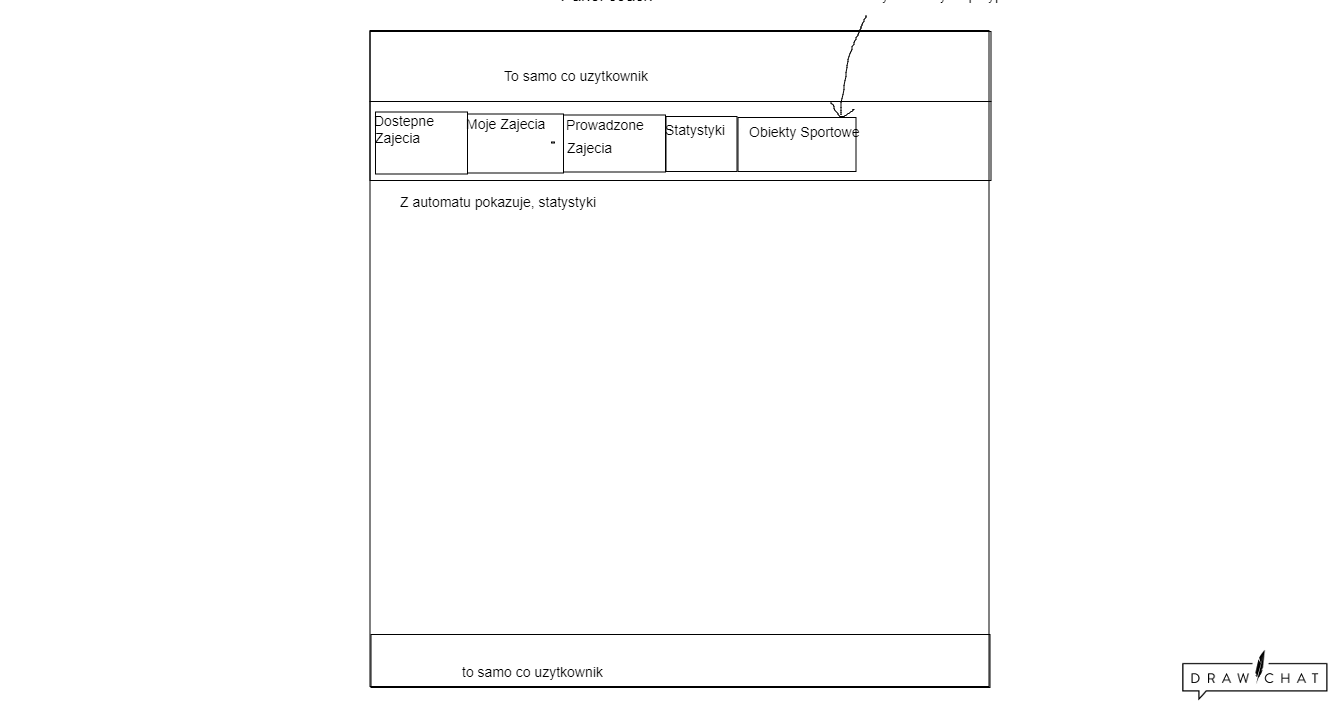
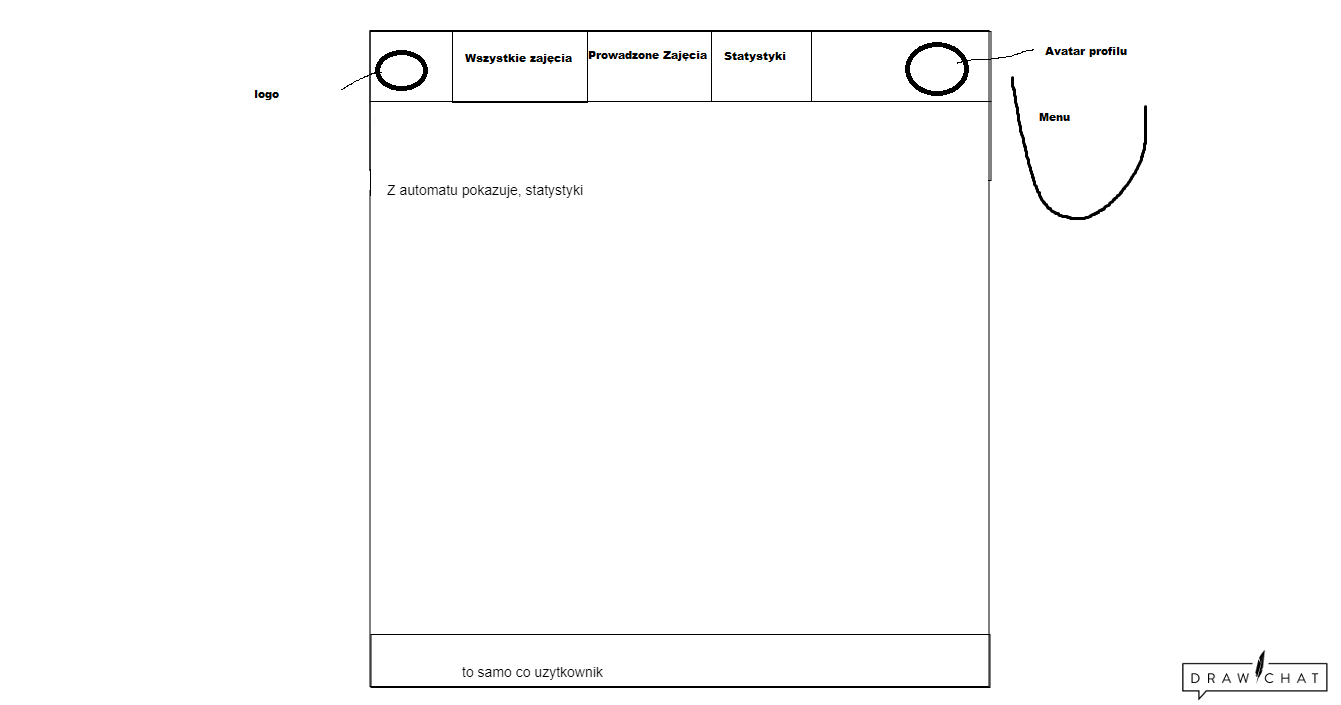
refactor user,coach and customer panel, and add newer graphic visualization to html documentation

diff --git a/FitnessApp/src/main/resources/templates/fragments/components-owner-panel.html b/FitnessApp/src/main/resources/templates/fragments/components-owner-panel.html
@@ -28,18 +28,14 @@
             <button class="navbar-toggler" type="button" data-bs-toggle="collapse" data-bs-target="#navbarResponsive" aria-controls="navbarResponsive" aria-expanded="false" aria-label="Toggle navigation"><span class="navbar-toggler-icon"></span></button>
             <div class="collapse navbar-collapse" id="navbarResponsive">
                 <ul class="navbar-nav ms-auto" id="navbar-full-width">
-                    <li class="nav-item"><a class="nav-link" href="#main-content">Dostępne Zajęcia</a></li>
-                    <li class="nav-item"><a class="nav-link" href="#main-content">Moje Zajęcia</a></li>
-                    <li class="nav-item"><a class="nav-link" href="#main-content">Statystyki</a></li>
-                    <li class="nav-item"><a class="nav-link" th:href="@{/owner-panel/my-clubs}">Moje Obiekty</a></li>
                     <li class="nav-item"><a class="nav-link" th:href="@{/owner-panel/all-clubs}">Wszystkie Obiekty</a></li>
+                    <li class="nav-item"><a class="nav-link" th:href="@{/owner-panel/my-clubs}">Moje Obiekty</a></li>
+                    <li class="nav-item"><a class="nav-link" href="#main-content">Statystyki</a></li>
                     <li class="nav-item dropdown" id="nav-item-right">
                         <a class="nav-link dropdown-toggle" href="#" id="navbarDropdownMenuLink" role="button" data-toggle="dropdown" aria-haspopup="true" aria-expanded="false">
                             <img th:src="@{/images/avatarTransparent.png}" width="40" height="40" class="rounded-circle">
                         </a>
                         <div class="dropdown-menu" aria-labelledby="navbarDropdownMenuLink">
-                            <a class="dropdown-item" href="#">O Nas</a>
-                            <a class="dropdown-item" href="#">Kontakt</a>
                             <a class="dropdown-item" href="#">Ustawienia Profilu</a>
                             <a class="dropdown-item" th:href="@{/logout}">Wyloguj</a>
                         </div>

diff --git a/FitnessApp/src/main/resources/templates/fragments/components-coach-panel.html b/FitnessApp/src/main/resources/templates/fragments/components-coach-panel.html
@@ -28,18 +28,14 @@
             <button class="navbar-toggler" type="button" data-bs-toggle="collapse" data-bs-target="#navbarResponsive" aria-controls="navbarResponsive" aria-expanded="false" aria-label="Toggle navigation"><span class="navbar-toggler-icon"></span></button>
             <div class="collapse navbar-collapse" id="navbarResponsive">
                 <ul class="navbar-nav ms-auto" id="navbar-full-width">
-                    <li class="nav-item"><a class="nav-link" href="#main-content">Dostępne Zajęcia</a></li>
-                    <li class="nav-item"><a class="nav-link" href="#main-content">Moje Zajęcia</a></li>
+                    <li class="nav-item"><a class="nav-link" href="#main-content">Wszystkie Zajęcia</a></li>
                     <li class="nav-item"><a class="nav-link" href="#main-content">Prowadzone Zajęcia</a></li>
                     <li class="nav-item"><a class="nav-link" href="#main-content">Statystyki</a></li>
-                    <li class="nav-item"><a class="nav-link" href="#main-content">Obiekty Sportowe</a></li>
                     <li class="nav-item dropdown" id="nav-item-right">
                         <a class="nav-link dropdown-toggle" href="#" id="navbarDropdownMenuLink" role="button" data-toggle="dropdown" aria-haspopup="true" aria-expanded="false">
                             <img th:src="@{/images/avatarTransparent.png}" width="40" height="40" class="rounded-circle">
                         </a>
                         <div class="dropdown-menu" aria-labelledby="navbarDropdownMenuLink">
-                            <a class="dropdown-item" href="#">O Nas</a>
-                            <a class="dropdown-item" href="#">Kontakt</a>
                             <a class="dropdown-item" href="#">Ustawienia Profilu</a>
                             <a class="dropdown-item" th:href="@{/logout}">Wyloguj</a>
                         </div>

diff --git a/FitnessApp/src/main/resources/templates/fragments/components-customer-panel.html b/FitnessApp/src/main/resources/templates/fragments/components-customer-panel.html
@@ -30,15 +30,13 @@
                 <ul class="navbar-nav ms-auto" id="navbar-full-width">
                     <li class="nav-item"><a class="nav-link" href="#main-content">Dostępne Zajęcia</a></li>
                     <li class="nav-item"><a class="nav-link" href="#main-content">Moje Zajęcia</a></li>
-                    <li class="nav-item"><a class="nav-link" href="#main-content">Statystyki</a></li>
                     <li class="nav-item"><a class="nav-link" href="#main-content">Obiekty Sportowe</a></li>
+                    <li class="nav-item"><a class="nav-link" href="#main-content">Statystyki</a></li>
                     <li class="nav-item dropdown" id="nav-item-right">
                         <a class="nav-link dropdown-toggle" href="#" id="navbarDropdownMenuLink" role="button" data-toggle="dropdown" aria-haspopup="true" aria-expanded="false">
                             <img th:src="@{/images/avatarTransparent.png}" width="40" height="40" class="rounded-circle">
                         </a>
                         <div class="dropdown-menu" aria-labelledby="navbarDropdownMenuLink">
-                            <a class="dropdown-item" href="#">O Nas</a>
-                            <a class="dropdown-item" href="#">Kontakt</a>
                             <a class="dropdown-item" href="#">Ustawienia Profilu</a>
                             <a class="dropdown-item" th:href="@{/logout}">Wyloguj</a>
                         </div>

diff --git a/FitnessApp/src/main/resources/templates/customer/customer-panel.html b/FitnessApp/src/main/resources/templates/customer/customer-panel.html
@@ -8,15 +8,15 @@
 
 <header class="py-xl-5 mt-5 bg-primary bg-gradient text-white">
     <!-- Sticky top menu -->
-    <div th:replace="fragments/components-owner-panel :: top-menu"></div>
+    <div th:replace="fragments/components-customer-panel :: top-menu"></div>
 
 </header>
 
 
 
-<div th:replace="fragments/components-coach-panel :: main-content"></div>
+<div th:replace="fragments/components-customer-panel :: main-content"></div>
 
-<footer th:replace="fragments/components-coach-panel :: footer"></footer>
+<footer th:replace="fragments/components-customer-panel :: footer"></footer>
 
 </body>
 </html>
